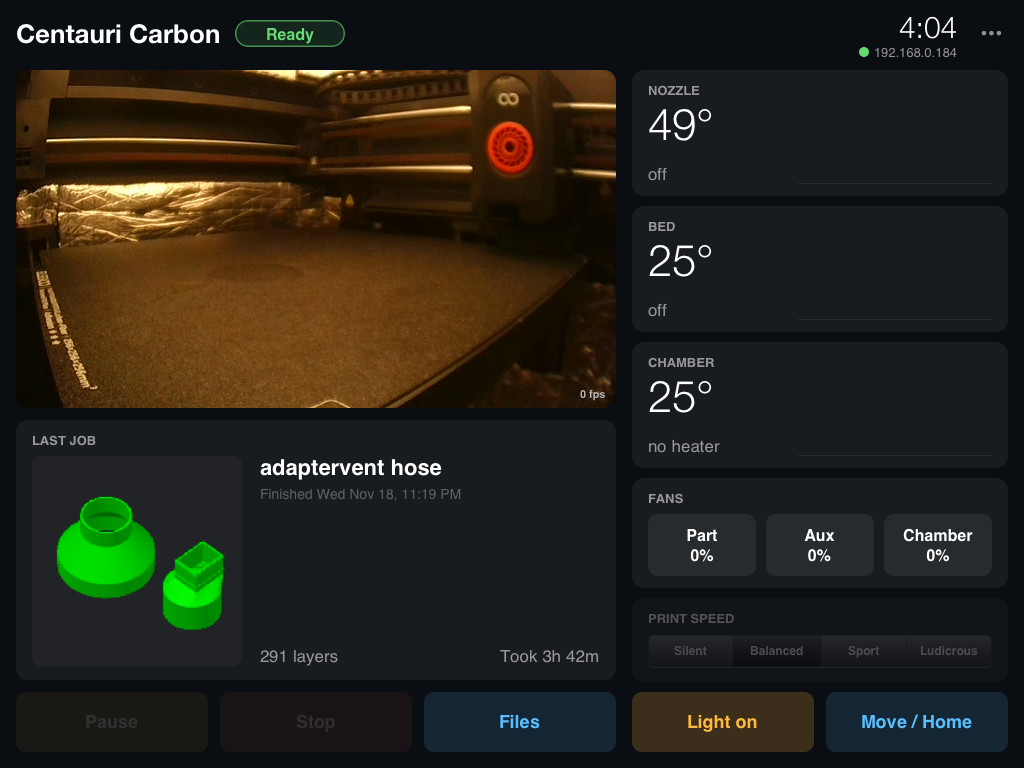
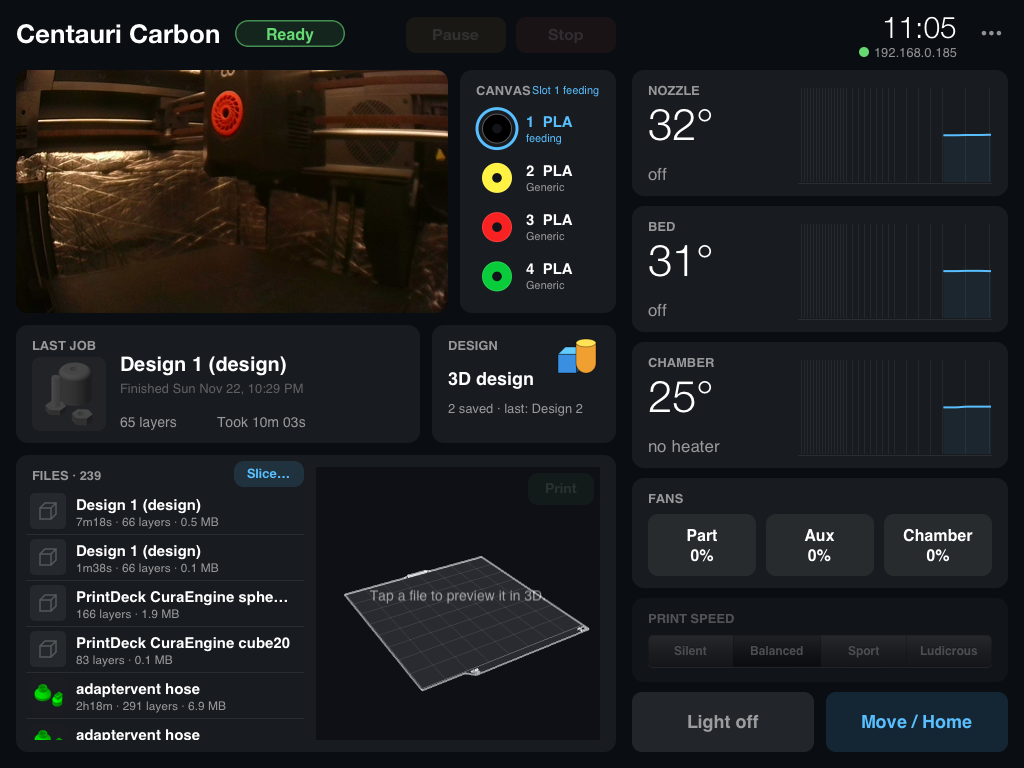
Update README, screenshots and docs for 0.2.0
- README: Slice page's four CANVAS slots, Flushing editor and Print options;
  Design page's Scale tool, background CSG with progress, stored group meshes
  and handy models; bed mesh auto-refetch and meshbridge boot install;
  Clear local cache; the "device busy" preview note; Cmd 128 options; correct
  build instructions; the type developer URL.
- New screenshots from the iPad: dashboard, Slice with print options, Design
  with handy models, bed mesh.
- meshbridge/README: start on boot with tools/install-meshbridge.sh.
- Version 0.2.0, package description; ignore conversation/ exports.

diff --git a/meshbridge/README.md b/meshbridge/README.md
@@ -21,7 +21,7 @@ scp -O meshbridge.py root@<printer-ip>:/tmp/        # password: OpenCentauri
 ssh root@<printer-ip> '/kip/bin/python3 /tmp/meshbridge.py --port 7140'
 ```
 
-It prints the profiles it found and serves on `0.0.0.0:7140`. Leave it running (or see "Start on boot").
+It prints the profiles it found and serves on `0.0.0.0:7140`. Leave it running, or see "Start on boot" to install it permanently.
 
 ## Point PrintDeck at it
 
@@ -42,13 +42,15 @@ keeps several (per build plate / bed temp). `GET /` lists them; pass `?profile=N
 `meshbridge` re-reads the files on every request, so running `BED_MESH_CALIBRATE` + saving on the
 printer and then tapping **Refresh** shows the new mesh.
 
-## Start on boot (optional)
+## Start on boot
 
-Add to the printer's startup (e.g. an init script or a `@reboot`-style hook, depending on the firmware):
-
-```bash
-/kip/bin/python3 /tmp/meshbridge.py --port 7140 &
-```
+`tools/install-meshbridge.sh [printer-ip]` (in the PrintDeck repo) does it all: it asks for the root password
+once, copies the script to `/kip/share/meshbridge/meshbridge.py`, and installs `/kip/etc/init.d/S90meshbridge`.
+OpenCentauri's boot script (`/etc/init.d/oc-bootstrap`) mounts Kipware from the persistent `/user-resource`
+partition on `/kip` and runs `/kip/etc/init.d/rc.unslung start`, which starts every `S??*` script there, so
+meshbridge comes up at every power-on, survives firmware updates, and is restarted if it exits. On the printer:
+`/kip/etc/init.d/S90meshbridge start|stop|restart|check`; its log is `/tmp/meshbridge.log`.
+`tools/install-meshbridge.sh <ip> --remove` takes it out again.
 
 ## Test off-device
 
